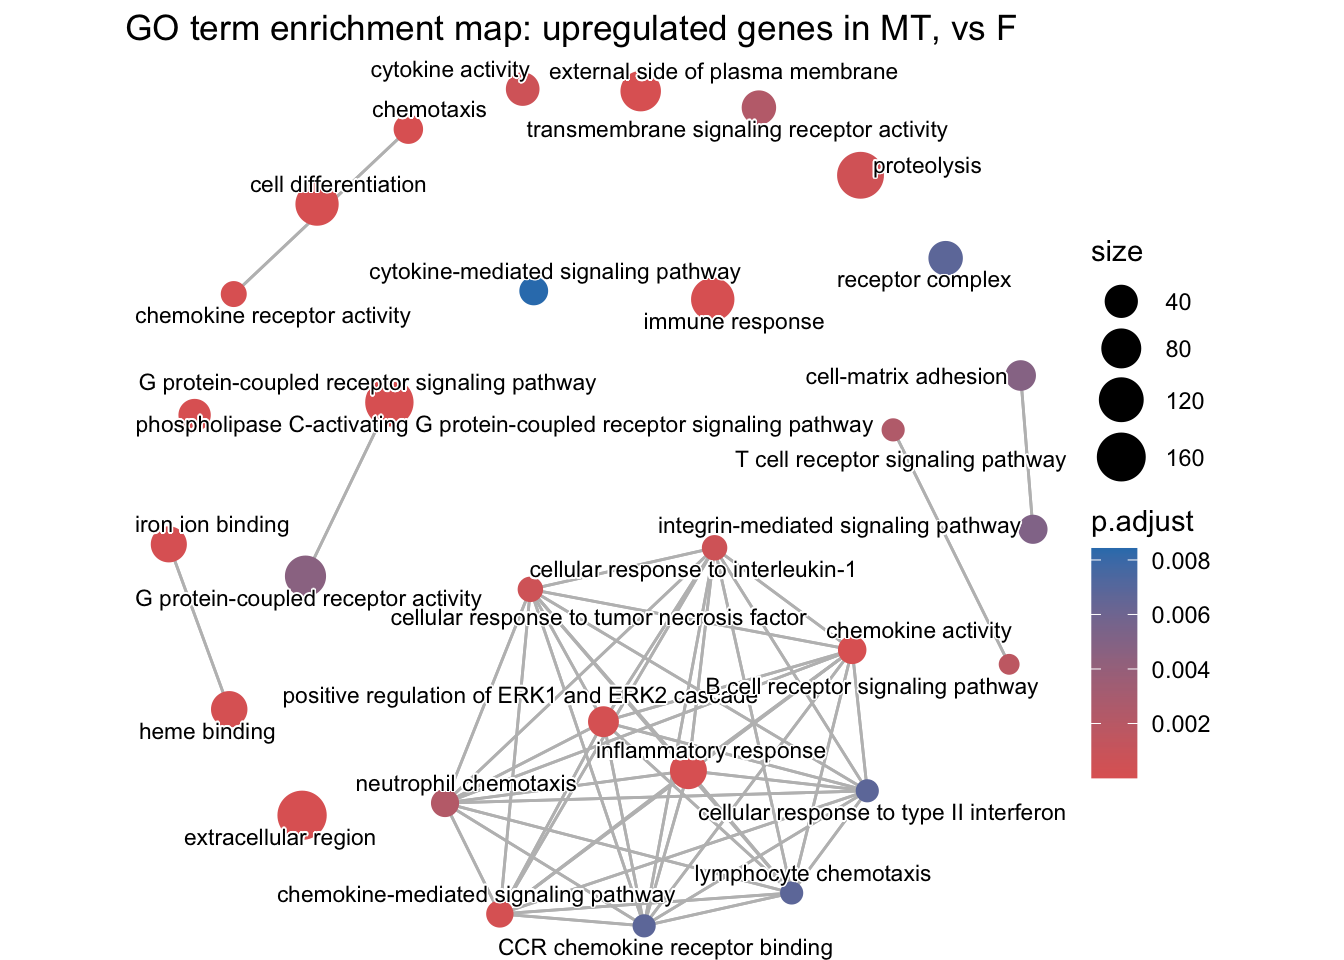
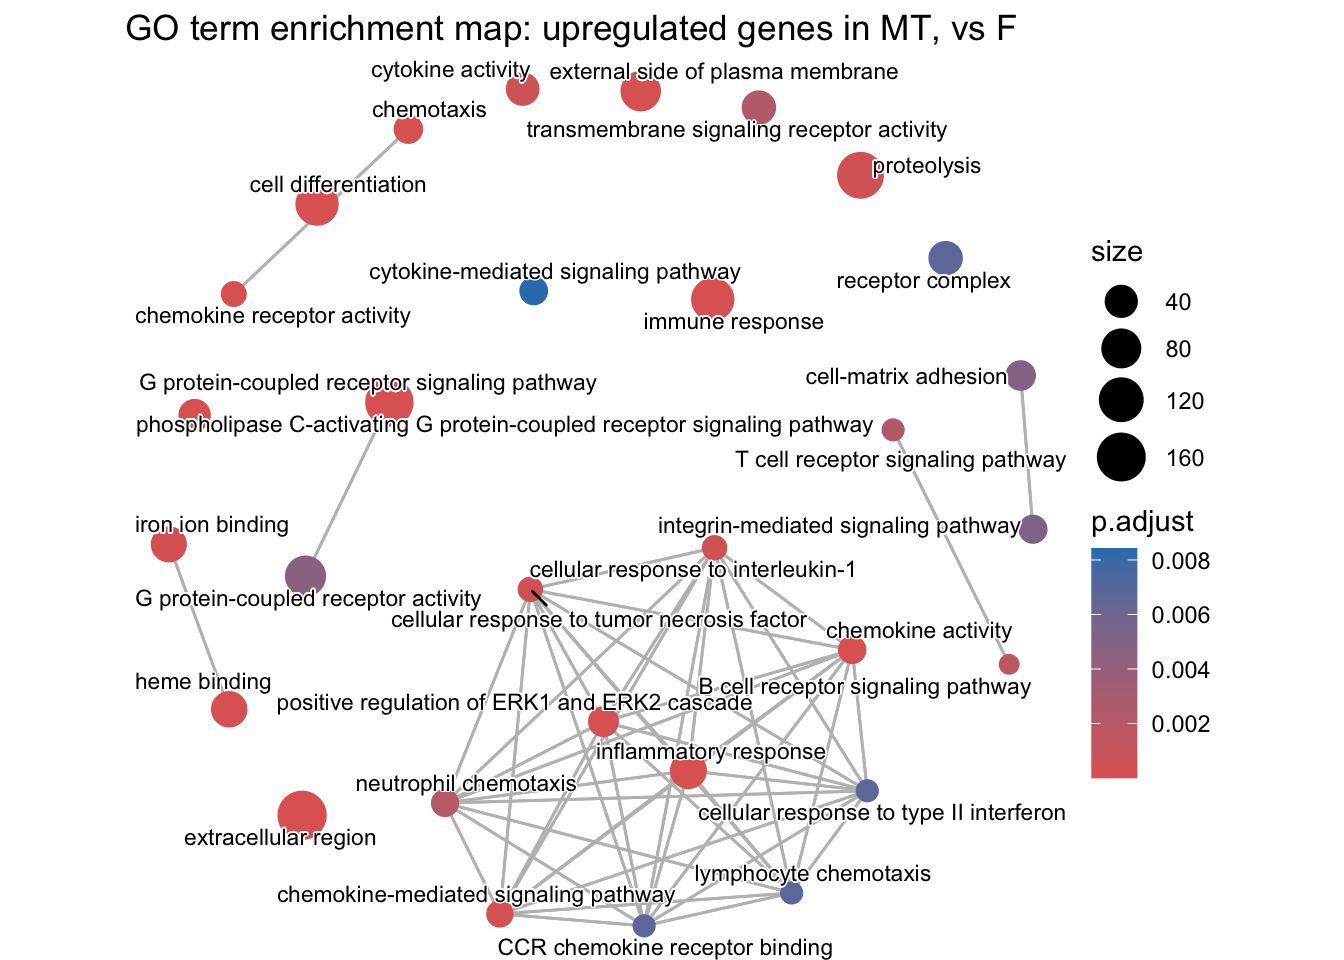
small updates

diff --git a/docs/mini-series-gene-ontology.html b/docs/mini-series-gene-ontology.html
@@ -502,8 +502,8 @@ Code used to generate dds object
 <section id="background-genes" class="level4">
 <h4 class="anchored" data-anchor-id="background-genes">2. <strong>Background genes</strong>:</h4>
 <p>📌💡 Make a <strong>character vector</strong> of all gene IDs that you want to use as a background for your GO analysis.</p>
-<p>You need to think carefully about what you want to use as your background gene list. Generating it is fairly straight forward, but it has implications for the analysis. Read more on how overrepresentation analysis works and how the background gene list is used in the analysis <a href="https://genomicsaotearoa.github.io/RNA-seq-data-analysis-workflow/episode_5.html">here in the functional analysis section of the RNA-seq workshop</a>.</p>
-<p>For now, we will use all genes that are expressed in our dataset as the background. We will take these gene IDs by pulling all the rownames out of the <code>dds</code> object:</p>
+<p>You need to think carefully about what you want to use as your background gene list. Generating it is fairly straight forward, but it has implications for the analysis. Read more on how overrepresentation analysis works and how the background gene list is used in the analysis <a href="https://genomicsaotearoa.github.io/RNA-seq-data-analysis-workflow/episode_5.html">here in the functional analysis section of the RNA-seq workshop</a> and in this paper on <a href="https://doi.org/10.1371/journal.pcbi.1014122">“Ten common mistakes that could ruin your enrichment analysis”</a> by Bora, McKenzie and Ziemann, 2026. All genes that you are testing (<em>i.e.,</em> all your DEGs) must be in the background gene list. The simplest option for generating this list is to use all genes that are <em>expressed</em> in your dataset as the background.</p>
+<p>We will take these gene IDs by pulling all the rownames out of the <code>dds</code> object:</p>
 <blockquote class="blockquote">
 <p>Note: earlier when dds was created, low count genes were filtered out, which removed genes not expressed (<em>i.e.,</em> zero counts across all samples) and genes very lowly expressed (<em>i.e.,</em> less than 10 counts in at least 2 samples).</p>
 </blockquote>
@@ -526,8 +526,8 @@ Checks and food for thought
 </div>
 <div id="callout-2" class="callout-2-contents callout-collapse collapse">
 <div class="callout-body-container callout-body">
-<p>What does <em>expressed</em> really mean in this context? If one of our genes in our dataset had one read mapping to it in one sample, and all other samples had zero, would you consider this an expressed gene? Most of us probably would agree this does not seem sufficient. Deciding on a read count threshold is up to you as a researcher. In this example above, we used a threshold of 10 counts in at least 2 samples. So in this way, our background of expressed genes will be less than the total number of genes in the genome, but more than the number of DE genes.</p>
-<p>We can confirm that there are less genes in the background then there are in the whole list of genes in the genome by running:</p>
+<p>What does <em>expressed</em> really mean in this context? If one of our genes in our dataset had one read mapping to it in one sample, and all other samples had zero, would you consider this an expressed gene? Most of us probably would agree this does not seem sufficient. Deciding on a read count threshold is up to you as a researcher. In this example above, we used a threshold of 10 counts in at least 2 samples. So in this way, our background list of expressed genes will be less than the total number of genes in the genome, but more than the number of DE genes.</p>
+<p>We can confirm that there are less genes in the expressed gene list (background) then there are in the whole list of genes in the genome by counting the number of genes in our background vector and in our original counts table (all genes in the genome), by running:</p>
 <div class="cell">
 <div class="sourceCode cell-code" id="cb11"><pre class="sourceCode r code-with-copy"><code class="sourceCode r"><span id="cb11-1"><a href="#cb11-1" aria-hidden="true" tabindex="-1"></a><span class="fu">length</span>(background)</span></code><button title="Copy to Clipboard" class="code-copy-button"><i class="bi"></i></button></pre></div>
 <div class="cell-output cell-output-stdout">
@@ -642,10 +642,13 @@ How to process the <code>.gaf</code> file…
 <span id="cb18-27"><a href="#cb18-27" aria-hidden="true" tabindex="-1"></a><span class="fu">nrow</span>(geneOntologies) <span class="sc">==</span> <span class="fu">nrow</span>(counts)</span>
 <span id="cb18-28"><a href="#cb18-28" aria-hidden="true" tabindex="-1"></a><span class="co"># should print TRUE</span></span></code><button title="Copy to Clipboard" class="code-copy-button"><i class="bi"></i></button></pre></div>
 </div>
+<blockquote class="blockquote">
+<p>Note: Don’t worry about duplicate GO terms in the final collapsed string for a gene. GOseq removes duplicates during the <code>goseq(... gene2cat = splitgoannot)</code> step. The <code>enricher()</code> function also removes duplicates during the <code>enricher(... TERM2GENE = term2gene)</code> step.</p>
+</blockquote>
 </div>
 </div>
 </div>
-<p><strong><em>Option 2 (harder):</em></strong> Derive GOs from BLAST and Pfam annotations. This is more work, but may be necessary if you don’t have a <code>.gaf</code> file available for your organism. You can use tools like <code>InterProScan</code> to annotate your genes with GO terms based on their sequence similarity to known proteins. BLAST2GO is another tool (commercial - need a license) that can be used to assign GO terms to genes based on BLAST results (<em>i.e.,</em> BLASTing against organisms that <em>do</em> have GO annotations, usually from the evolutionarily nearest model organism!). This approach may be more time-consuming and may not yield as comprehensive GO annotations as using a <code>.gaf</code> file, but it can be a useful alternative for non-model organisms. If you generate Pfam annotations through another pipeline (<em>e.g.,</em> through hmmer) you may also need to download the latest <a href="https://current.geneontology.org/ontology/external2go/pfam2go">PFAM2GO mapping file</a> to retrieve GO terms for your genes based on their Pfam domains.</p>
+<p><strong><em>Option 2 (harder):</em></strong> Derive GOs from BLAST and Pfam annotations. This is more work, but may be necessary if you don’t have a <code>.gaf</code> file available for your organism. You can use tools like <code>InterProScan</code> to annotate your genes with GO terms based on their sequence similarity to known proteins. BLAST2GO is another tool (commercial - need a license) that can be used to assign GO terms to genes based on BLAST results (<em>i.e.,</em> BLASTing against organisms that <em>do</em> have GO annotations, usually from the evolutionarily nearest model organism!). You can do this manually without BLAST2GO too. You would need to BLAST your genes against a database of genes with known GO annotations, and then use the results to assign GO terms to your genes based on the best hits. If you generate Pfam annotations through another pipeline (<em>e.g.,</em> through hmmer) you can download the latest <a href="https://current.geneontology.org/ontology/external2go/pfam2go">PFAM2GO mapping file</a> to retrieve GO terms for your genes based on their Pfam domains. These approaches are more time-consuming, but are a useful alternative for non-model organisms or for less annotated genomes. <em>De novo</em> RNAseq methods frequently use the <a href="https://github.com/trinityrnaseq/trinityrnaseq/wiki">Trinity</a> - <a href="https://github.com/Trinotate/Trinotate/wiki">Trinotate</a> pipeline to assemble and annotate (unfortunately, as of March 2024 there is no longer ongoing development and support for these tools.)</p>
 </div>
 </div>
 </div>
@@ -684,7 +687,7 @@ How do I get gene lengths?
 </div>
 <div id="callout-6" class="callout-6-contents callout-collapse collapse show">
 <div class="callout-body-container callout-body">
-<p>Getting gene lengths sounds straightforward, but it depends on how you define the length of a gene — and there are several reasonable definitions that give different answers.</p>
+<p>Getting gene lengths sounds straightforward, but it depends on how you define the length of a gene – and there are several reasonable definitions that give different answers.</p>
 <p>One approach is to use the <strong>genomic span</strong> of a gene: the distance from the first base to the last base across the gene body. This is easy to extract from a GFF/GTF file but includes introns, which are not actually transcribed into mature mRNA.</p>
 <p>A more accurate definition for RNA-seq purposes is the <strong>union exon length</strong>: the total number of base pairs covered by exons, after merging overlapping exons from different isoforms of the same gene. This better reflects the sequence that reads actually map to.</p>
 <p>Ideally, make a file/object that has gene lengths for <em>all genes in your genome</em> – you will filter out the genes you need for analysis later.</p>
